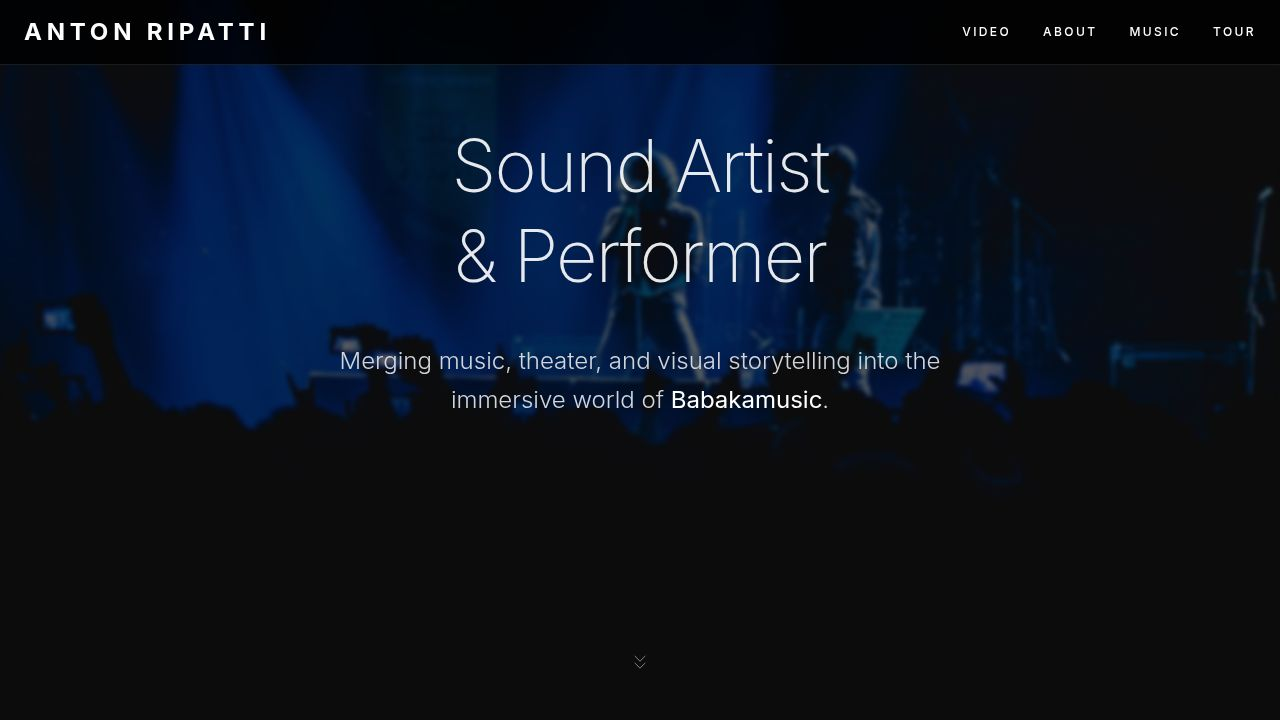
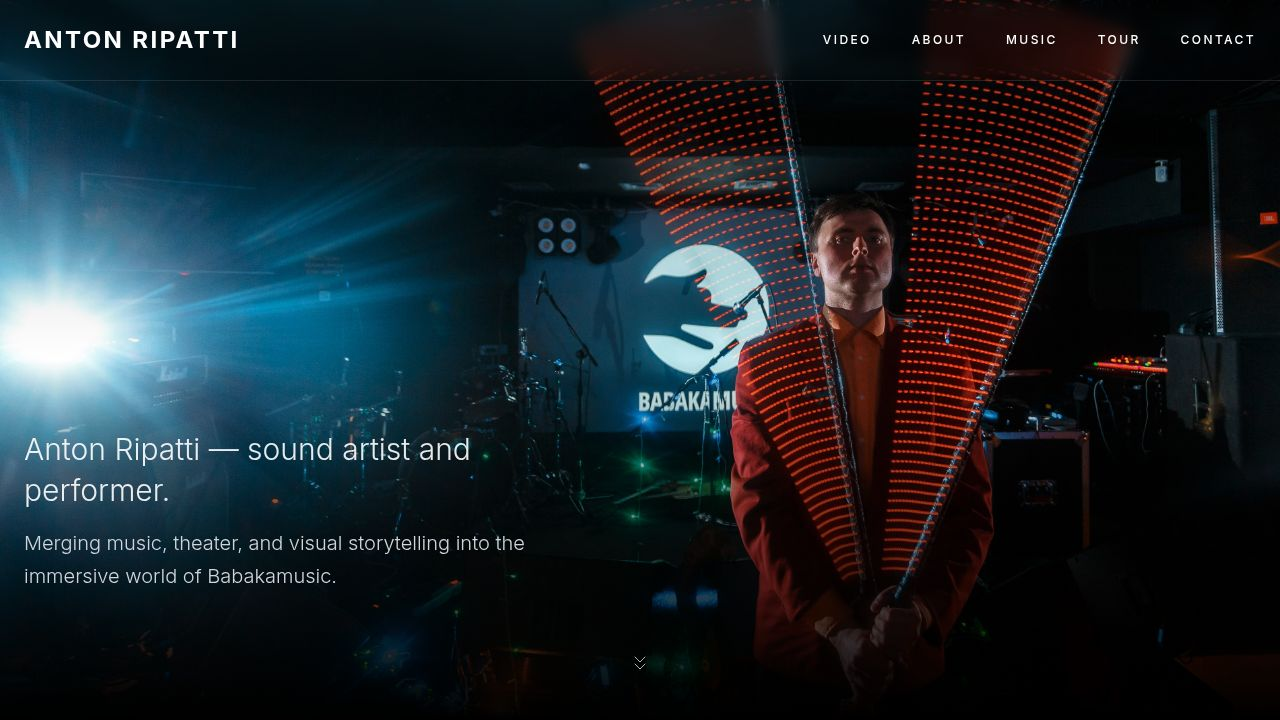
Make artist description immediately visible on the home screen
Remove animation from the artist description text on the home page.

Replit-Commit-Author: Agent
Replit-Commit-Session-Id: 96ceed2b-74f3-4c78-8d0a-ced9fb5fe906
Replit-Commit-Checkpoint-Type: full_checkpoint
Replit-Commit-Event-Id: d2e9191b-4a34-4195-af0d-26981899664a
Replit-Commit-Screenshot-Url: https://storage.googleapis.com/screenshot-production-us-central1/48b1ecec-3c8d-4af6-aaa5-fe838aa3fa0e/96ceed2b-74f3-4c78-8d0a-ced9fb5fe906/qbMEcfd
Replit-Helium-Checkpoint-Created: true

diff --git a/client/src/pages/home.tsx b/client/src/pages/home.tsx
@@ -81,7 +81,7 @@ export default function Home() {
             </div>
 
             {/* Description Text - Lower Left Third */}
-            <div className="mt-12 max-w-xl animate-in fade-in slide-in-from-left-10 duration-1000 fill-mode-forwards opacity-0" style={{animationDelay: '0.8s'}}>
+            <div className="mt-12 max-w-xl">
                <h3 className="text-2xl md:text-3xl font-light leading-snug text-white/90">
                  Anton Ripatti — sound artist and performer.
                </h3>
